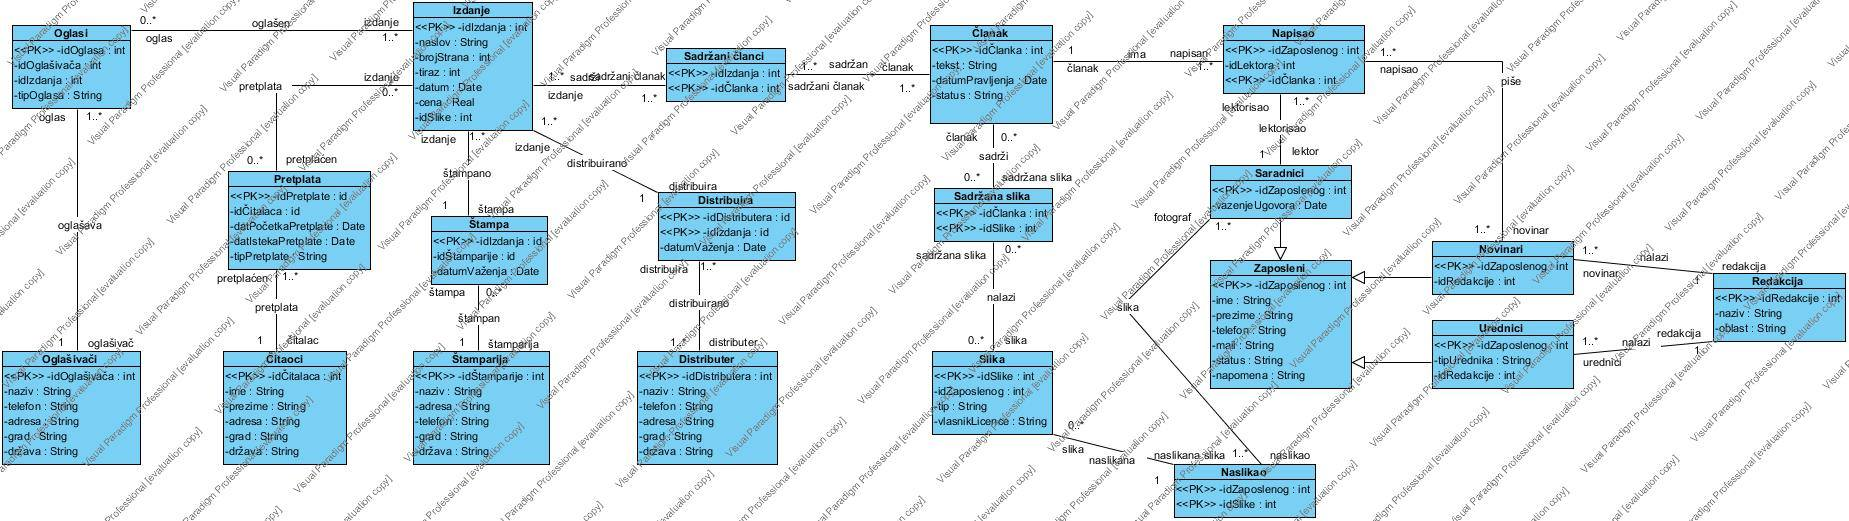
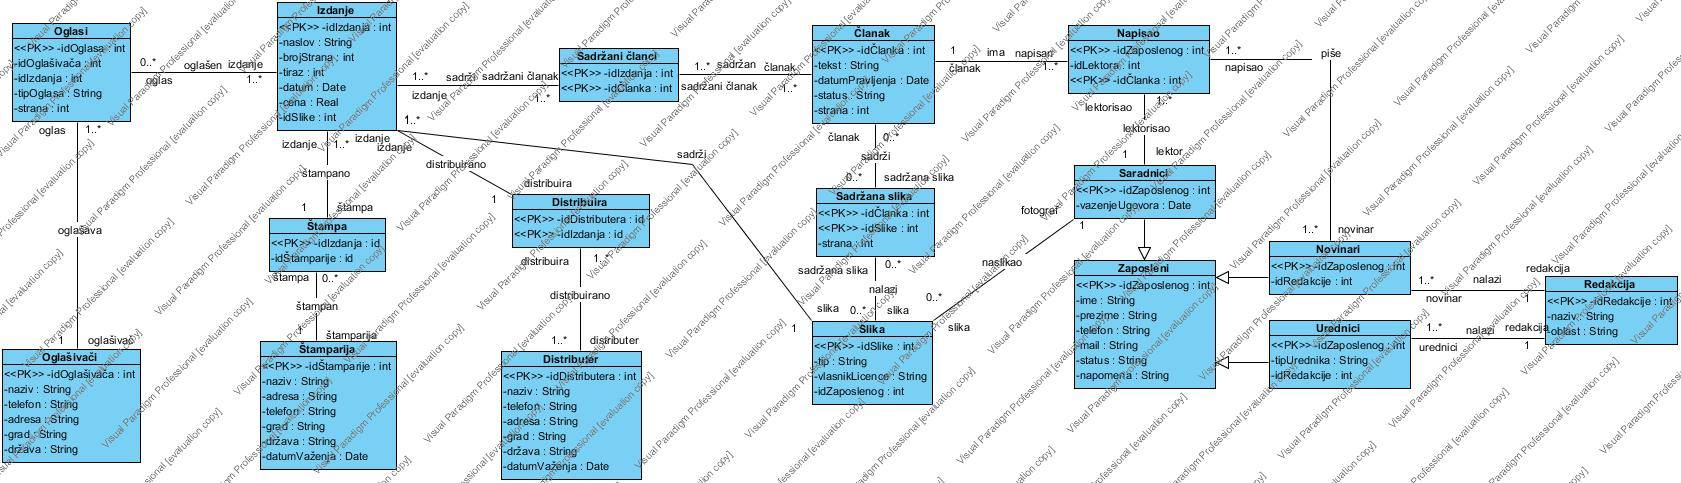
sjfiaosfjsaiog

diff --git a/klase.tex b/klase.tex
@@ -1,1 +1,216 @@
 \chapter{Klase podataka}
+
+Razmatranjem slučajeva upotrebe zaključeno je da je za funkcionisanje informacionog sistema najbitnije čuvati sledeće podatke:
+\begin{enumerate}
+\item Podaci o zaposlenima
+\item Podaci o slikama
+\item Podaci o autorstvu
+\item Podaci o izdanjima
+\item Podaci o ugovorima
+\item Podaci o konkursima
+\end{enumerate}
+
+\begin{figure}[htp]
+    \centering
+    \includegraphics[width=0.9\textwidth]{slike/konkurs-pretplata}
+    \caption{Klasni dijagram 1. deo}
+    \label{klase1}
+\end{figure}    
+
+\begin{figure}[htp]
+    \centering
+    \includegraphics[width=0.9\textheight, angle=90]{slike/klasni_dijagram}
+    \caption{Klasni dijagram 2. deo}
+    \label{klase2}
+\end{figure}    
+
+
+
+\newpage
+
+\section{Podaci o zaposlenima}
+Klasa \textbf{zaposleni} i klase koje se izvode iz nje su ključni deo informacionog sistema. Klase koje su izvedene su \textbf{urednik}, \textbf{novinar} i \textbf{saradnik}. One preuzimaju sve atribute iz roditeljske klase i dodaju sebi specifične. \\
+
+Kod \textbf{urednik} to je tip urednika i identifikacija redakcije kojoj urednik pripada, kod \textbf{novinar}  to je  identifikacija redakcije kojoj novinar pripada, kod \textbf{saradnik} to je podatak do kad saradnik ima važeći ugovor sa izdavaštvom. \vspace{5mm}
+
+\noindent \textbf{Zaposleni}
+\begin{enumerate}
+\item Identifikacioni broj zaposlenog (PK)
+\item Ime
+\item Prezime
+\item Telefon
+\item Adresa
+\item  Imejl
+\item Status (može biti "stalni", "honorarni" ili "bivši")
+\item Napomena (za dodatne informacije)
+\end{enumerate} \vspace{5mm}
+
+\noindent \textbf{Urednik}
+\begin{enumerate}
+\item Identifikacioni broj zaposlenog (PK/SK)
+\item Tip urednika (može biti "glavni", "obični" ili "grafički")
+\item Identifikacioni broj redakcije (SK)
+\end{enumerate} \vspace{5mm}
+
+\noindent \textbf{Novinar}
+\begin{enumerate}
+\item Identifikacioni broj zaposlenog (PK/SK)
+\item Identifikacioni broj redakcije (SK)
+\end{enumerate} \vspace{5mm}
+
+\noindent \textbf{Saradnik}
+\begin{enumerate}
+\item Identifikacioni broj zaposlenog (PK/SK)
+\item Važenje ugovora (mora biti Null za stalne saradnike)
+\end{enumerate} \vspace{5mm}
+
+\section{Podaci o slikama}
+Klasa \textbf{slika} pamti autora slike ukoliko ju je zaposleni napravio, njen tip (fotografija, ilustracija) kao i vlasnika licence ukoliko je slika licencirana od nekuda. 
+
+\noindent \textbf{Slika}
+\begin{enumerate}
+\item Identifikacioni broj slike (PK)
+\item Identifikacioni broj saradnika koji je napravio sliku (SK)
+\item Tip (fotografija ili ilustracija)
+\item Vlasnik Licence
+\end{enumerate} \vspace{5mm}
+
+
+\section{Podaci o autorstvu}
+
+Neki članak može biti biti napisan od jednog ili više novinara. Klasa \textbf{Napisao} čuva podatke o tome koji su novinari napisali članak i koji je lektor lektorisao tekst.
+
+\noindent \textbf{Napisao}
+\begin{enumerate}
+\item Identifikacioni broj članka (PK/SK)
+\item Identifikacioni broj novinara (PK/SK)
+\item Identifikacioni broj Lektora (Saradnika)
+\end{enumerate} \vspace{5mm}
+
+\section{Podaci o izdanjima}
+O izdanjima se čuvaju informacije o datumu izdavanja, tiražu, broju strana, ceni u dinarima, slici koja se koristi kao naslovna strana i spisku članaka koji se nalaze u okviru izdanja. Spisak članaka se nalazi u okviru klase \textbf{Sadržani članci} koja pored identifikacionig broja izdanja čuva i identifikacioni broj članka i broj strane na kojoj se dati članak pojavljuje 
+
+
+\noindent \textbf{Izdanje}
+\begin{enumerate}
+\item Identifikacioni broj izdanja (PK)
+\item Naslov
+\item Broj strana
+\item Tiraž
+\item Datum izdavanja
+\item Cena
+\item Identifikacioni broj slike koja služi kao naslovna strana (SK)
+\end{enumerate} \vspace{5mm}
+
+
+\noindent \textbf{Sadržani članci}
+\begin{enumerate}
+\item Identifikacioni broj izdanja (PK/SK)
+\item Identifikacioni broj članka (PK/SK)
+\item Broj strane na kojoj se članak pojavljuje
+\end{enumerate} \vspace{5mm}
+
+\section{Podaci o ugovorima}
+Podaci o ugovorima su oni podaci koji se odnose na saradnju sa spoljnim entitetima i same entitete. Tu spadaju:\\
+
+\noindent \textbf{Distributeri}
+\begin{enumerate}
+\item Identifikacioni broj distributera (PK)
+\item Naziv
+\item Telefon
+\item Adresae
+\item Grad
+\item Država
+\item Dužina ugovora
+\end{enumerate} \vspace{5mm}
+
+\noindent \textbf{Distribuira}
+\begin{enumerate}
+\item Identifikacioni broj izdanja (PK/SK)
+\item Identifikacioni broj distributera (PK/SK)
+\end{enumerate} \vspace{5mm}
+
+\noindent \textbf{Štamparije}
+\begin{enumerate}
+\item Identifikacioni broj štamparije (PK)
+\item Naziv
+\item Telefon
+\item Adresa
+\item Grad
+\item Država
+\item Dužina ugovora
+\end{enumerate} \vspace{5mm}
+
+\noindent \textbf{Štampa}
+\begin{enumerate}
+\item Identifikacioni broj izdanja (PK/SK)
+\item Identifikacioni broj štamparije (SK)
+\end{enumerate} \vspace{5mm}
+
+\noindent \textbf{Čitaoci}
+\begin{enumerate}
+\item Identifikacioni broj čitaoca (PK)
+\item Ime
+\item Prezime
+\item Telefon
+\item Adresa
+\item Grad
+\item Država
+\end{enumerate} \vspace{5mm}
+
+\noindent \textbf{Pretplate}
+\begin{enumerate}
+\item Identifikacioni broj pretplate (PK)
+\item Identifikacioni broj čitaoca (SK)
+\item DatumPočetka
+\item DatumKraja
+\item TipPretplate (na pisano ili Internet izdanje)
+\end{enumerate} \vspace{5mm}
+
+\noindent \textbf{Oglašivači}
+\begin{enumerate}
+\item Identifikacioni broj oglašivača (PK)
+\item Naziv
+\item Telefon
+\item Adresa
+\item Grad
+\item Država
+\end{enumerate} \vspace{5mm}
+
+\noindent \textbf{Oglasi}
+\begin{enumerate}
+\item Identifikacioni broj oglasa (PK)
+\item Identifikacioni broj oglasa (SK)
+\item Identifikacioni broj izdanja (SK)
+\item TipOglasa
+\item Strana
+\end{enumerate}  \vspace{5mm}
+
+\section{Podaci o konkursima}
+Klasa \textbf{konkurs} čuva podatke o raspisanim konkursima za datu poziciju i od kad do kad traju. \textbf{Kandidat} čuva podatke o potencijalnim zaposlenima dok \textbf{konkurisao} vezuje te dve klase.
+
+\noindent \textbf{Konkurs}
+\begin{enumerate}
+\item Identifikacioni broj konkursa (PK)
+\item Datum raspisivanja
+\item Datum završretka
+\item Pozicija (za koju se konkuriše)
+\item Napomena
+\end{enumerate}  \vspace{5mm}
+
+\noindent \textbf{Konkurisao}
+\begin{enumerate}
+\item Identifikacioni broj konkursa (PK/SK)
+\item Identifikacioni broj kandidata (PK/SK)
+\end{enumerate}  \vspace{5mm}
+
+
+\noindent \textbf{Kandidat}
+\begin{enumerate}
+\item Identifikacioni broj kandidata (PK)
+\item Ime
+\item Prezime
+\item Telefon
+\item mail
+\end{enumerate}  \vspace{5mm}
+

diff --git a/uvod.tex b/uvod.tex
@@ -7,7 +7,7 @@
 
 Rad je izrađen kao grupni studentski projekat na Matematičkom fakultetu, na stu\-dij\-skom programu Informatika, prve godine Master studija. Projekat je odrađen pod nadzorom profesora dr Saše Malkova, u okviru predmeta Informacioni sistemi. \\
 
-\section*{Učesnici u sistemu}
+\section{Učesnici u sistemu}
 
 \noindent U okviru izdavaštva postoje dve organizacione celine:
 \begin{enumerate}
@@ -15,12 +15,12 @@ Rad je izrađen kao grupni studentski projekat na Matematičkom fakultetu, na st
 \item Uredništvo i pisci
 \end{enumerate}
 
-\subsection*{Menadžment}
+\subsection{Menadžment}
 
 Menadžment se bavi poslovnom stranom vođenja časopisa: sklapanjem ugovora, is\-pla\-tom plata, računovodstvom, nabavkom sredstava i odabirom saradnika (u dogovoru sa uredništvom).
 Menadžment nije fokus ovog rada, ali učestvuje u poslovima koji se tiču stvaranja sadržaja. Menadžment odgovara izvršnom odboru koji opet odgovara vlasnicima časopisa. Oni su sasvim van obima ovog opisa.
 
-\subsection*{Uredništvo i pisci}
+\subsection{Uredništvo i pisci}
 
 Uredništvo i oni sa kojima rade: pisci, dizajneri, fotografi i drugi direktno i indirektno stvaraju sadržaj. Sve što se proizvede mora biti provereno i odobreno od strane nekog urednika. 
 
@@ -47,10 +47,23 @@ Ostali zaposleni su:
 \item  Administratori i moderatori koji održavaju veb stranicu i odgovaraju Internet redakciji.
 \end{itemize}
 
-\section*{Opis rada izdavaštva}
+\section{Opis rada izdavaštva}
 
 Da bi pisac mogao obavljati svoj posao, potrebno je da bude dodeljen nekom uredniku koji će odgovarati za njegov rad i kome predaje članke. Urednik, čija oblast može biti štampana ili Internet rubrika, prima članak i dorađuje ga i eventualno ga šalje nazad piscu na doradu. Kada su i pisac i urednik zadovoljni člankom, urednik ga šalje lektoru koji ispravlja greške i pravi manje izmene. \\
 
 Zatim grafički urednik sa svojim saradnicima ilustruje i bira izgled članka koji se zatim u slučaju Internet izdanja predaje administratoru za objaviti a u slučaju štampanog uklapa sa ostalim člancima i predaje glavnom odgovornom direktoru koji daje svoje odobrenje pre predaje štampariji. Časopis se tada prodaje distributerima i šalje pret\-plat\-ni\-ci\-ma. \\
 
 Kao dodatni izvor zarade, časopis ima i oglase, a da bi oglašavač mogao dobiti svoj oglas, on mora postići dogovor sa menadžmentom kao i sa uredništvom. Kada je to postignuto, oglašavač dostavlja materijal svog oglasa (obično sliku) a grafički urednik se stara o tome gde će on stajati i po potrebi pravi manje vizuelne izmene. \\
+
+\section{Korišćeni dijagram i alati}
+Sve bitne informacije za izradu ovog rada o načinu funkcionisanja jednog izdavaštva dobili smo kroz ličnu komunikaciju sa saradnikom programa za dijasporu Radio-televizije Srbije i zamenikom glavnog urednika Dobro jutro kolumbo magazina. Zahvaljujući ovim dobijenim informacijama, imali smo potrebne preduslove da napravimo realan informacioni sistem, koji predstavlja unapređenje postojećeg sistema na način koji se nama činio najbolji \\
+
+Za predstavljanje ovog sistema korišćeni su dijagrami: \\
+\begin{itemize}
+\item Dijagrami slučajeva upotrebe
+\item BPMN dijagrami
+\item Dijagrami aktivnosti
+\item Klasni dijagrami
+\end{itemize}
+
+Kao softver za izradu ovih dijagrama koristili smo Visual Paradigm.

diff --git a/main.tex b/main.tex
@@ -43,6 +43,9 @@
 \lhead{\thesection}
 \cfoot{\thepage}
 
+\captionsetup[figure]{name=Slika}
+
+
 \begin{document}
 \renewcommand*\contentsname{ }
 
@@ -106,8 +109,9 @@
 \newpage
 
 \input{./klase.tex}
-
 \newpage
+
+\input{./zakljucak.tex}
 
 
 \end{document}
